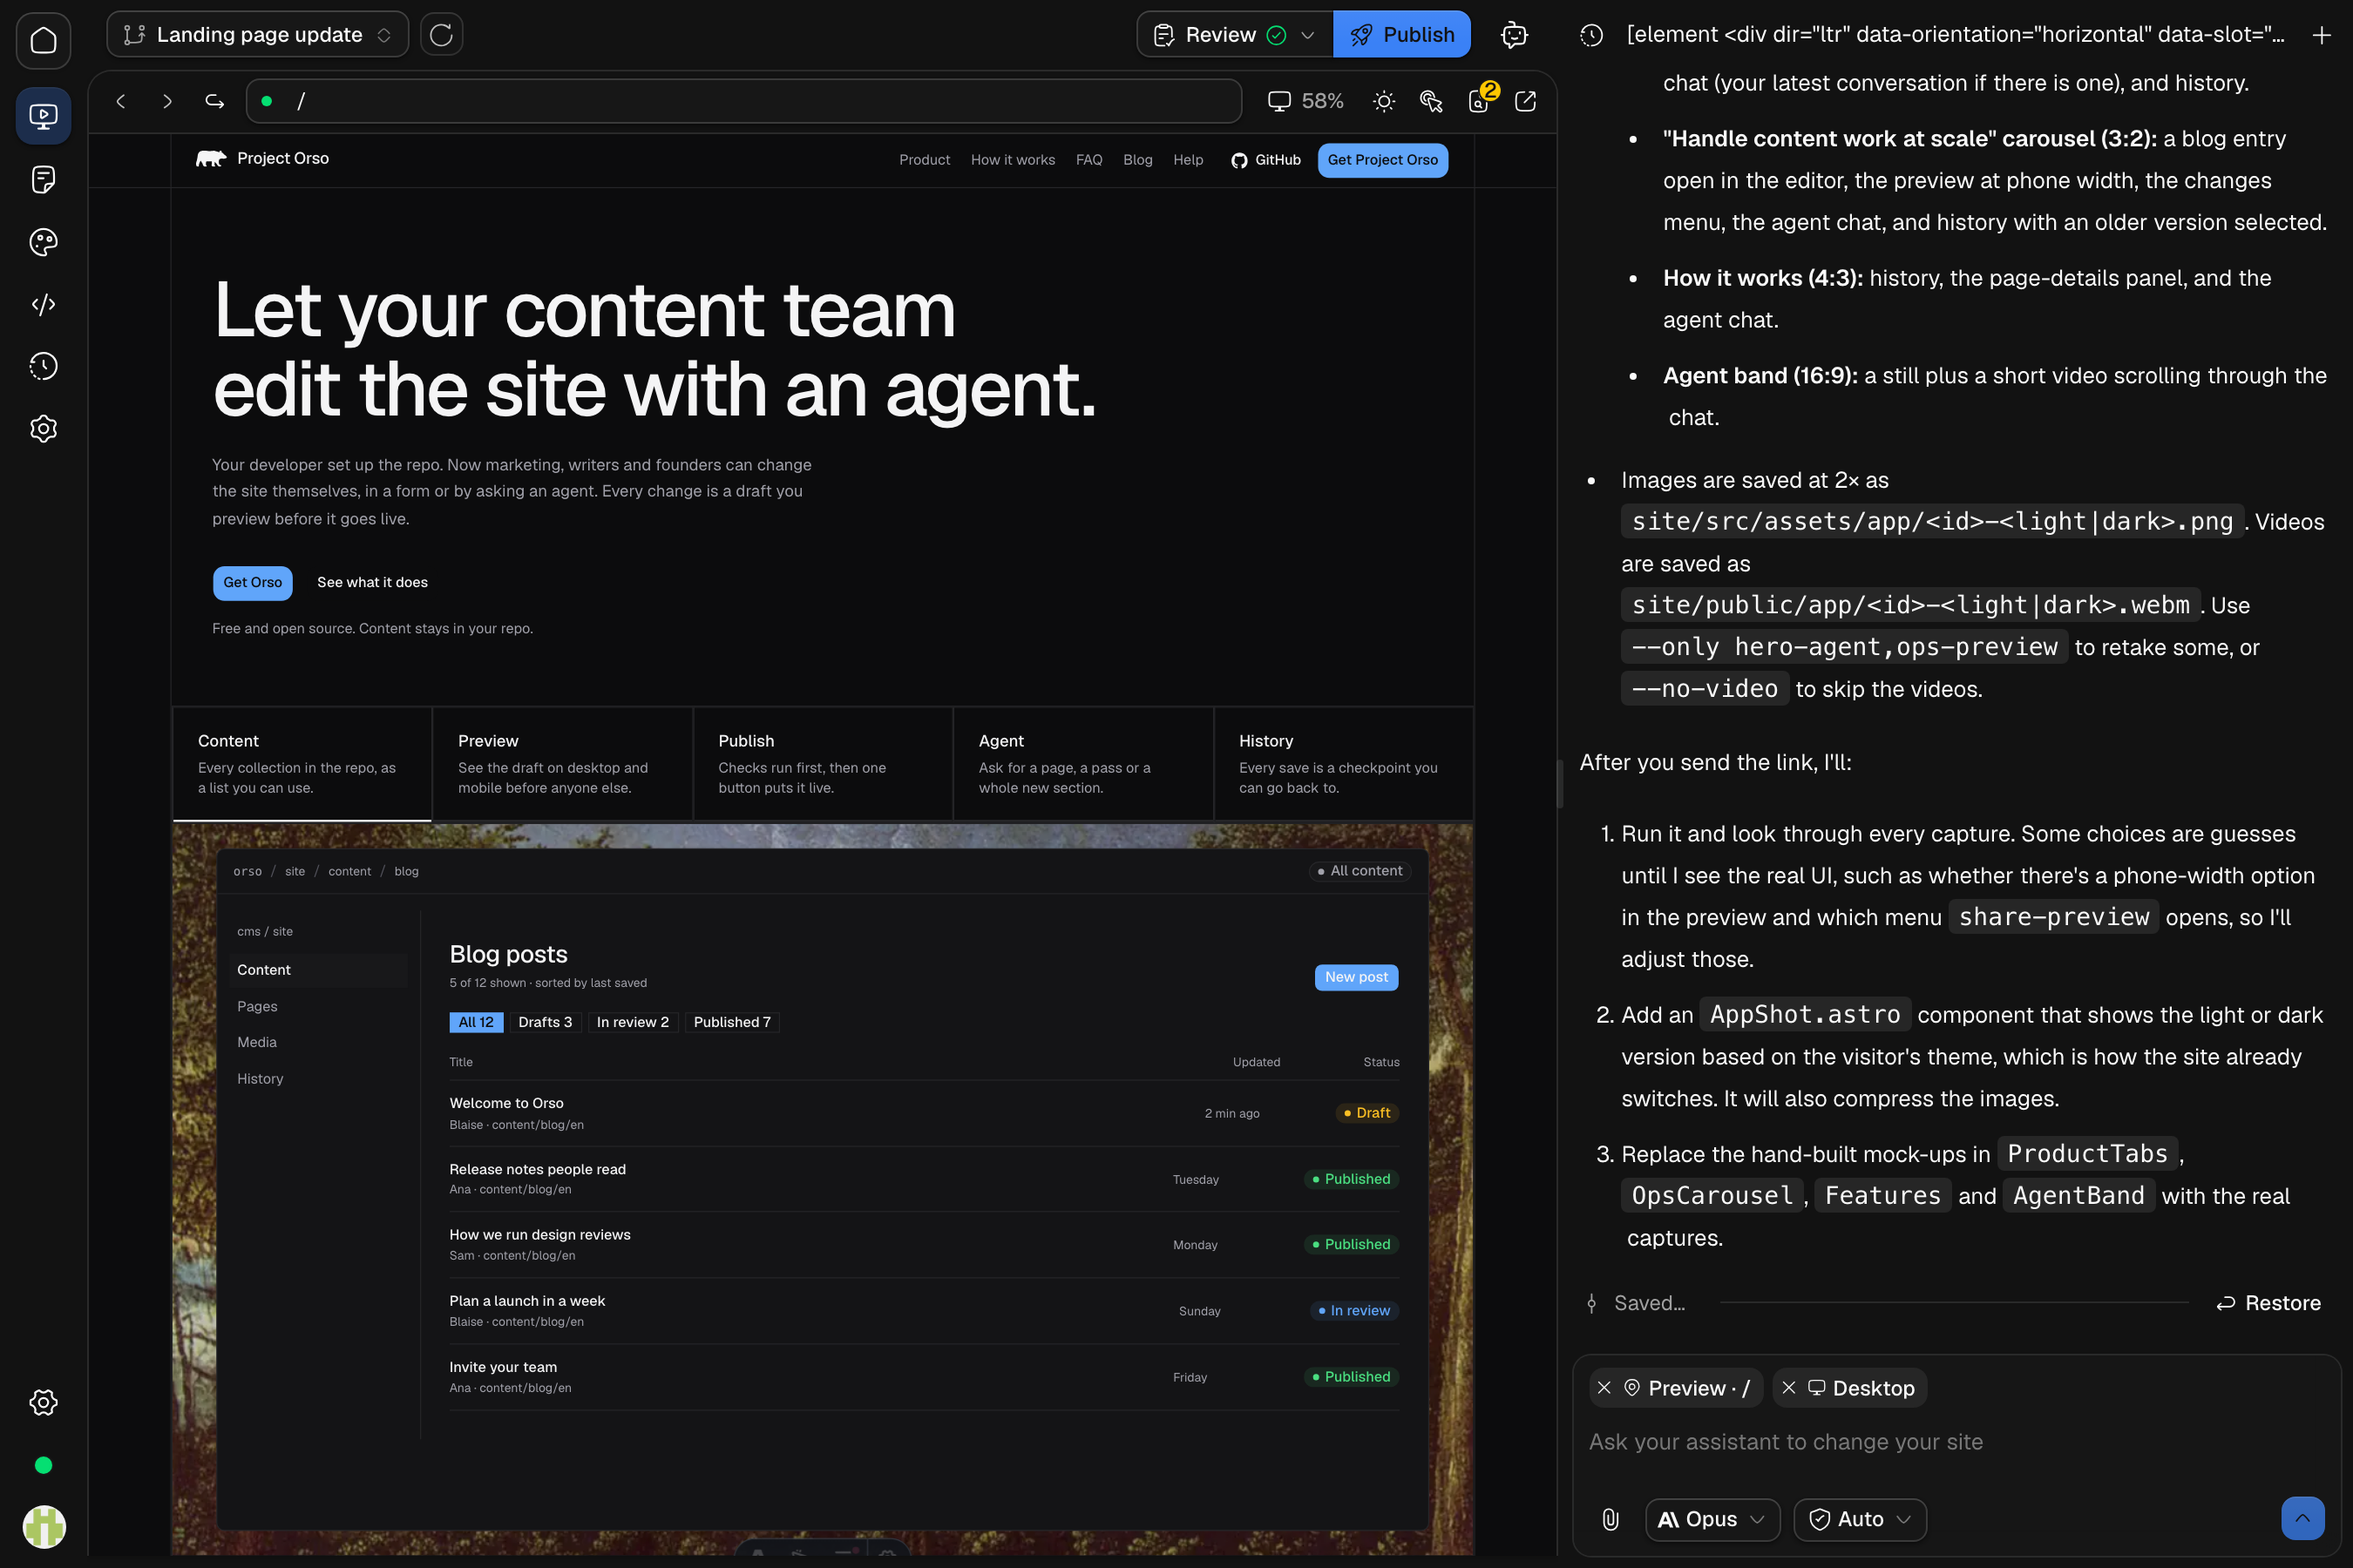
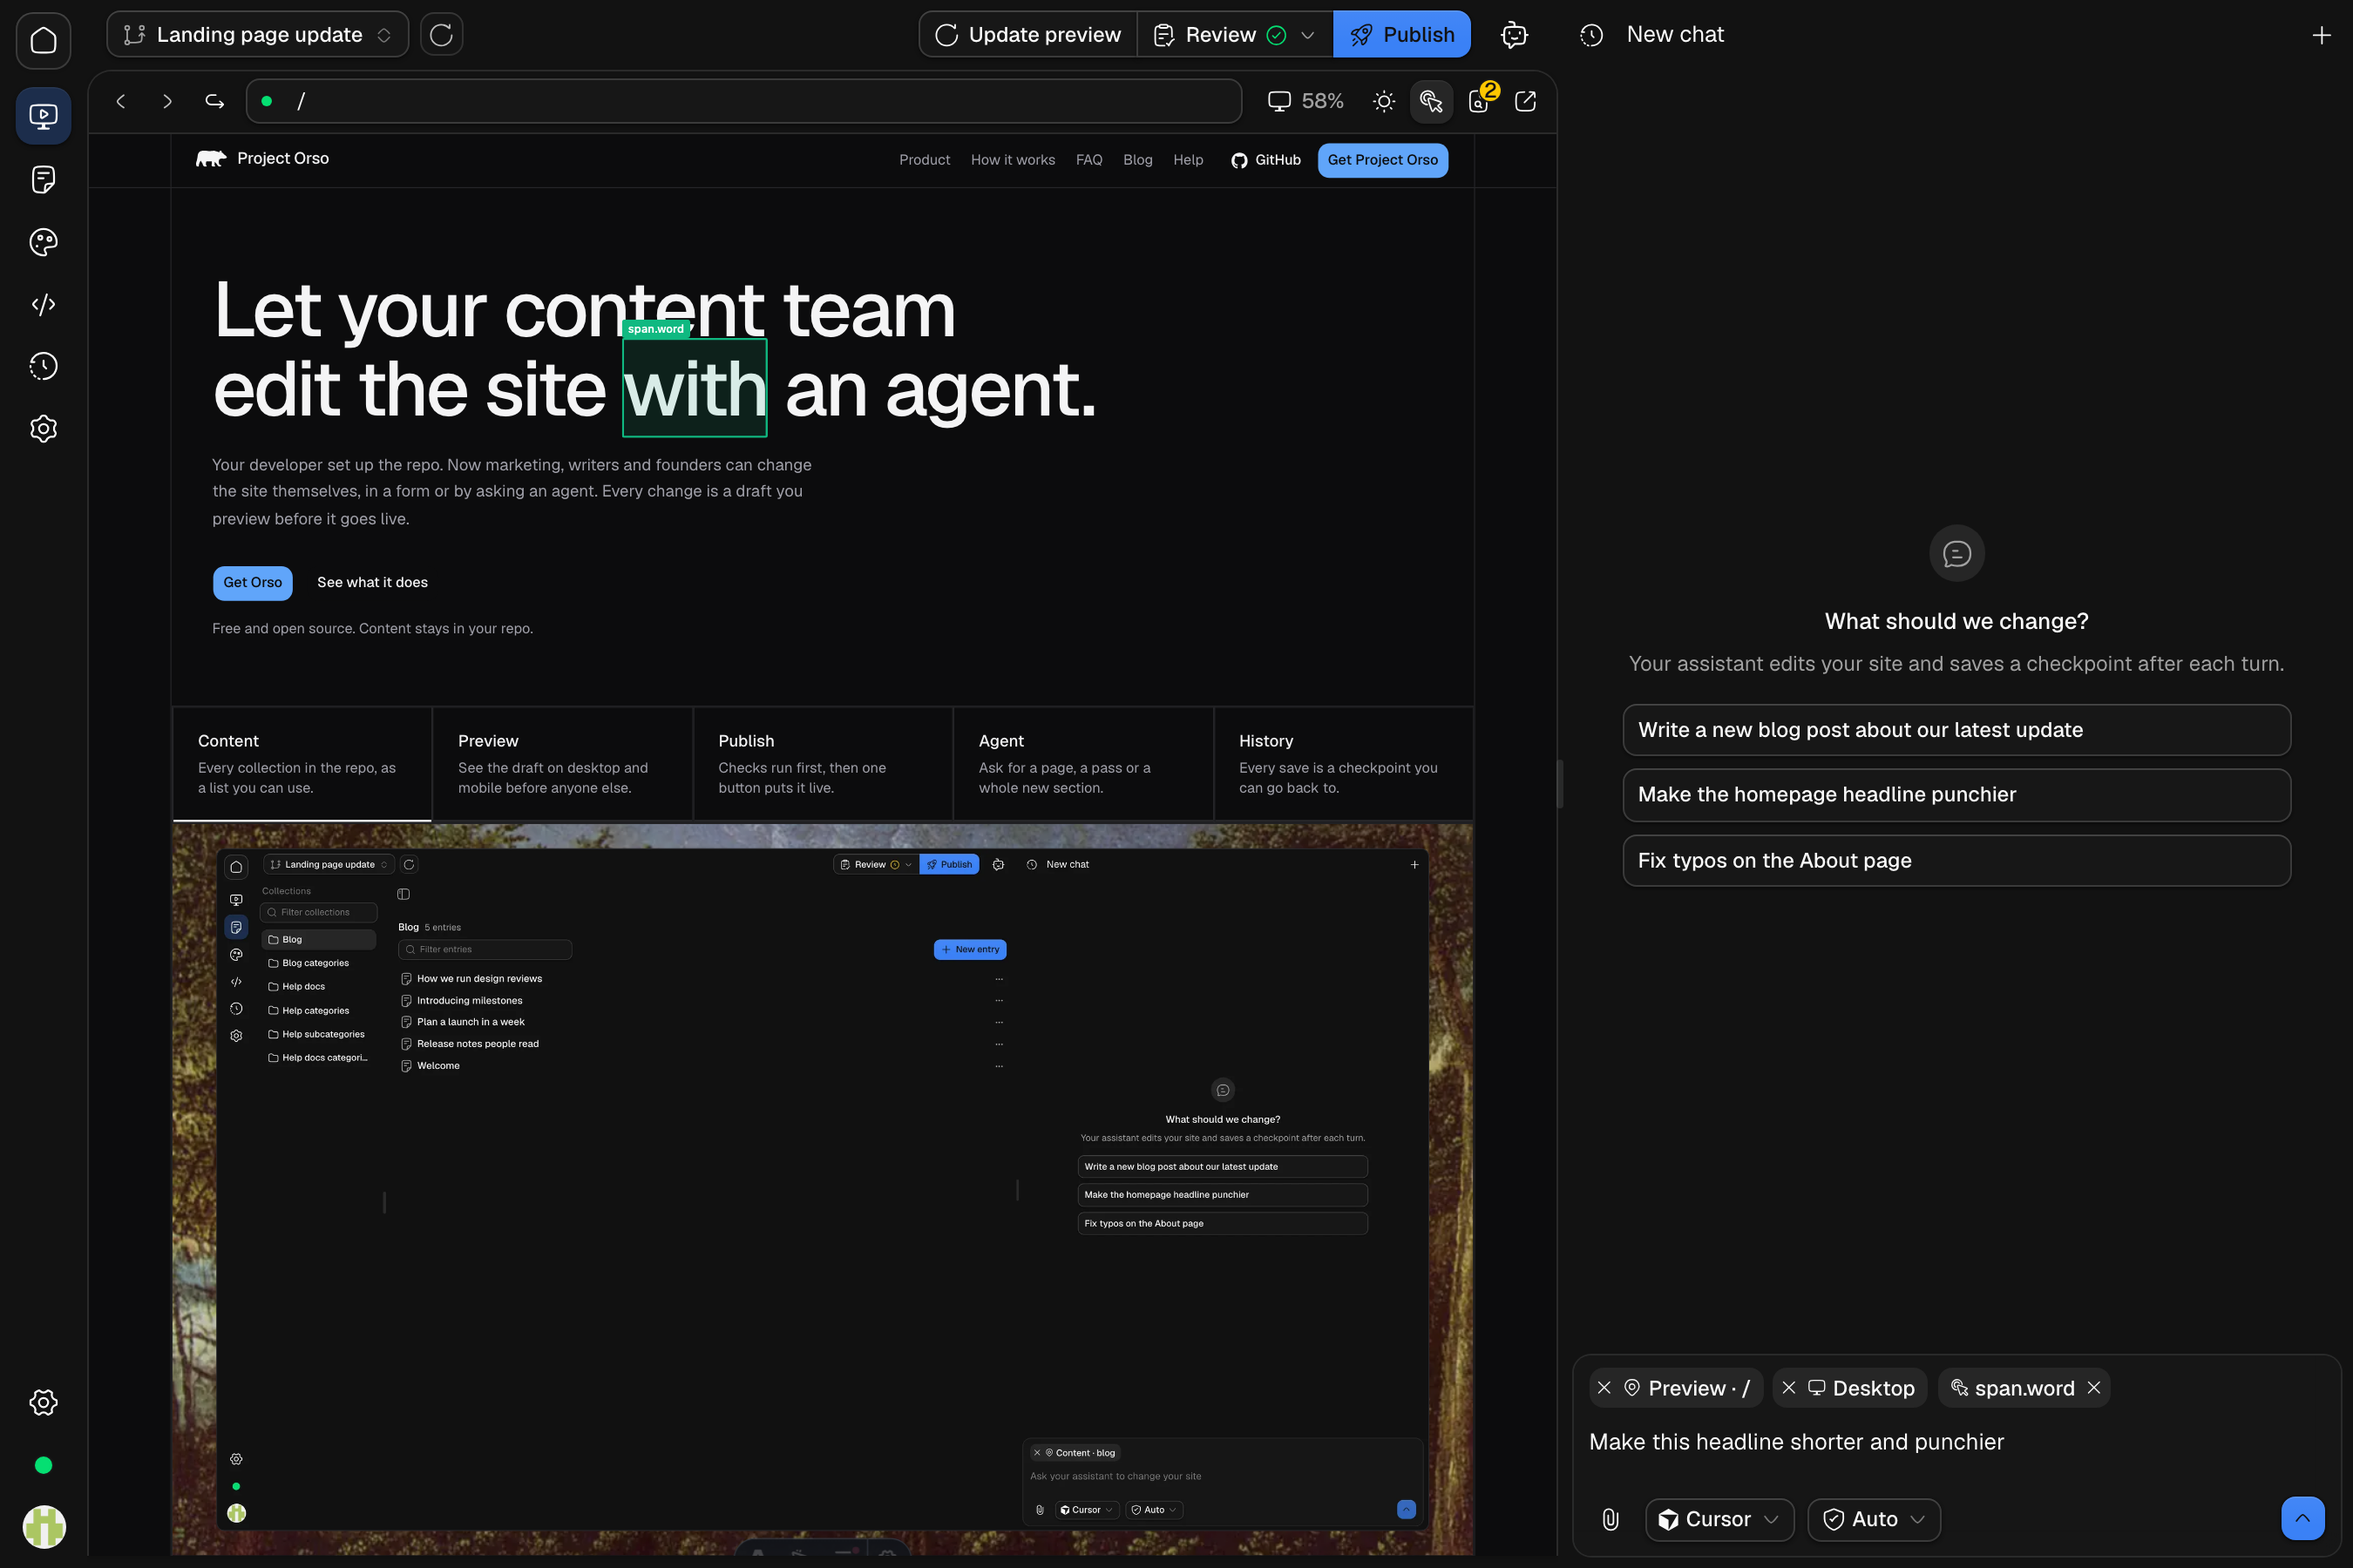
checkpoint: Show 2.5 ops carousel slides on desktop and refresh agent shots

diff --git a/site/src/components/react/OpsCarousel.tsx b/site/src/components/react/OpsCarousel.tsx
@@ -70,7 +70,7 @@ export function OpsCarousel({ shots }: { shots: Record<SlideKind, AppShotData> }
             <CarouselItem
               key={slide.kind}
               className={cn(
-                "basis-4/5 border-r border-line pl-0 md:basis-1/2 lg:basis-1/3",
+                "basis-4/5 border-r border-line pl-0 md:basis-1/2 lg:basis-2/5",
                 index === last && "border-r-0",
               )}
             >
@@ -89,7 +89,7 @@ export function OpsCarousel({ shots }: { shots: Record<SlideKind, AppShotData> }
                     <AppShot
                       shot={shots[slide.kind]}
                       alt={alts[slide.kind]}
-                      sizes="(min-width: 64rem) 26rem, (min-width: 48rem) 50vw, 80vw"
+                      sizes="(min-width: 64rem) 32rem, (min-width: 48rem) 50vw, 80vw"
                       className="h-full max-h-full w-auto max-w-full"
                     />
                   </div>
